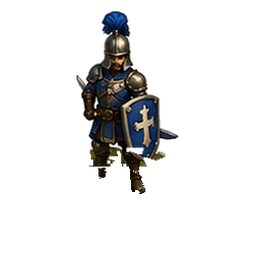
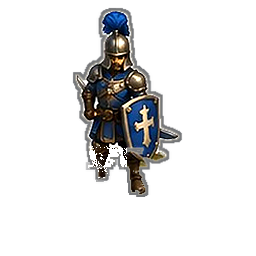
fix(render): fit 2.5D infantry to board presentation

Changed region(s): [[0.2812, 0.0312, 0.7188, 0.7812], [0.4062, 0.4062, 0.4375, 0.4375]]

diff --git a/src/render/board-view.ts b/src/render/board-view.ts
@@ -15,6 +15,33 @@ const BUILDING_DISPLAY = {
   crown: { size: 76, yOffset: -9 },
 } as const;
 
+export interface UnitDisplay {
+  width: number;
+  height: number;
+  hpBarY: number;
+  yOffset: number;
+}
+
+export const DEFAULT_UNIT_DISPLAY: UnitDisplay = {
+  width: 46,
+  height: 51,
+  hpBarY: 27,
+  yOffset: UNIT_Y_OFFSET,
+};
+
+export const UNIT_DISPLAY: Partial<Record<UnitTypeId, UnitDisplay>> = {
+  infantry: {
+    width: 56,
+    height: 66,
+    hpBarY: 33,
+    yOffset: -12,
+  },
+};
+
+export function unitDisplay(type: UnitTypeId): UnitDisplay {
+  return UNIT_DISPLAY[type] ?? DEFAULT_UNIT_DISPLAY;
+}
+
 /** 렌더 계층이 그리는 유닛 표현(게임 유닛·에디터 배치 유닛 공용). */
 export interface ViewUnit {
   key: number;
@@ -174,33 +201,37 @@ export class BoardView {
     for (const unit of units) {
       let view = this.unitViews.get(unit.key);
       const assetId = `unit.${unit.type}.${unit.faction}` as AssetId;
+      const display = unitDisplay(unit.type);
       if (!view) {
         const token = this.scene.add.image(0, 0, textureKey(assetId));
-        token.setDisplaySize(46, 51);
         const hpBar = this.scene.add.graphics();
         const container = this.scene.add.container(0, 0, [token, hpBar]);
         view = { container, token, hpBar };
         this.unitViews.set(unit.key, view);
       } else if (view.token.texture.key !== textureKey(assetId)) {
         view.token.setTexture(textureKey(assetId));
-        view.token.setDisplaySize(46, 51);
       }
+      view.token.setDisplaySize(display.width, display.height);
       const { x, y } = this.pos(unit);
-      view.container.setPosition(x, y + UNIT_Y_OFFSET);
+      view.container.setPosition(x, y + display.yOffset);
       view.container.setDepth(3 + y / 10000);
-      this.drawHpBar(view.hpBar, unit.hpRatio);
+      this.drawHpBar(view.hpBar, unit.hpRatio, display.hpBarY);
       view.container.setAlpha(unit.dim ? 0.55 : 1);
     }
   }
 
-  private drawHpBar(g: Phaser.GameObjects.Graphics, ratio: number | null): void {
+  private drawHpBar(
+    g: Phaser.GameObjects.Graphics,
+    ratio: number | null,
+    hpBarY: number,
+  ): void {
     g.clear();
     if (ratio === null) return;
     const clamped = Phaser.Math.Clamp(ratio, 0, 1);
     const w = 34;
     const h = 5;
     const x = -w / 2;
-    const y = 27;
+    const y = hpBarY;
     g.fillStyle(0x1d1a14, 0.85);
     g.fillRoundedRect(x - 1, y - 1, w + 2, h + 2, 2);
     const color = clamped > 0.55 ? 0x64a05a : clamped > 0.28 ? 0xc9a227 : 0xa33636;

diff --git a/src/render/BoardScene.ts b/src/render/BoardScene.ts
@@ -16,7 +16,7 @@ import {
   disposeCameraFit,
   fitCameraToTiles,
   pixelToHex,
-  UNIT_Y_OFFSET,
+  unitDisplay,
   type ViewUnit,
 } from './board-view';
 
@@ -179,6 +179,7 @@ export class BoardScene extends Phaser.Scene {
       }
       // 병과별 이동 속도: 기병은 빠르고 궁병은 느리다
       const unit = this.state.units.find((u) => u.id === unitId);
+      const yOffset = unitDisplay(unit?.type ?? 'infantry').yOffset;
       const stepMs = unit?.type === 'cavalry' ? 80 : unit?.type === 'archer' ? 125 : 105;
       const points = path.map((p) => this.pos(p));
       let i = 1;
@@ -193,7 +194,7 @@ export class BoardScene extends Phaser.Scene {
         this.tweens.add({
           targets: view.container,
           x: target.x,
-          y: target.y + UNIT_Y_OFFSET,
+          y: target.y + yOffset,
           duration: stepMs,
           ease: 'Sine.easeInOut',
           onComplete: step,
@@ -235,6 +236,9 @@ export class BoardScene extends Phaser.Scene {
         });
       };
       const anim = attackAnimKind(o.attackerType);
+      const attackerYOffset = unitDisplay(o.attackerType).yOffset;
+      const defenderType = this.state.units.find((unit) => unit.id === o.defenderId)?.type;
+      const defenderYOffset = unitDisplay(defenderType ?? 'infantry').yOffset;
       const impact = () => {
         const dmgColor =
           anim === 'bolt'
@@ -248,7 +252,7 @@ export class BoardScene extends Phaser.Scene {
           const style = projectileStyle('bolt');
           const flash = this.add.circle(
             target.x,
-            target.y + UNIT_Y_OFFSET,
+            target.y + defenderYOffset,
             style.impactFlashRadius,
             style.impactFlashColor,
             0.85,
@@ -293,7 +297,7 @@ export class BoardScene extends Phaser.Scene {
         this.tweens.add({
           targets: proj,
           x: target.x,
-          y: target.y + UNIT_Y_OFFSET,
+          y: target.y + defenderYOffset,
           duration: style.durationMs,
           ease: style.ease,
           onComplete: () => {
@@ -307,7 +311,7 @@ export class BoardScene extends Phaser.Scene {
         const oy = view.container.y;
         const depth = anim === 'cavalry-charge' ? 0.5 : 0.3;
         const dx = (target.x - ox) * depth;
-        const dy = (target.y + UNIT_Y_OFFSET - oy) * depth;
+        const dy = (target.y + attackerYOffset - oy) * depth;
         this.tweens.add({
           targets: view.container,
           x: ox + dx,

diff --git a/tests/board-view-unit-display.test.ts b/tests/board-view-unit-display.test.ts
@@ -1,0 +1,35 @@
+// 한 줄 목적: 외부 보병과 기존 fallback 병종의 표시 크기·체력 막대 위치 계약을 검증한다
+import { readFileSync } from 'node:fs';
+import { resolve } from 'node:path';
+import { describe, expect, it } from 'vitest';
+
+const SOURCE = readFileSync(
+  resolve(import.meta.dirname, '../src/render/board-view.ts'),
+  'utf8',
+);
+
+describe('보드 유닛 표시 설정', () => {
+  it('보병만 2.5D 스프라이트 크기와 낮은 체력 막대를 사용한다', () => {
+    expect(SOURCE).toMatch(
+      /UNIT_DISPLAY[\s\S]*?infantry:\s*\{\s*width:\s*56,\s*height:\s*66,\s*hpBarY:\s*33,\s*yOffset:\s*-12,/,
+    );
+  });
+
+  it('다른 병종은 fallback 규격을 사용하고 갱신마다 표시 설정을 다시 적용한다', () => {
+    expect(SOURCE).toMatch(
+      /DEFAULT_UNIT_DISPLAY[\s\S]*?width:\s*46,\s*height:\s*51,\s*hpBarY:\s*27,\s*yOffset:\s*UNIT_Y_OFFSET,/,
+    );
+    expect(SOURCE).toContain('return UNIT_DISPLAY[type] ?? DEFAULT_UNIT_DISPLAY;');
+    expect(SOURCE).toContain('view.token.setDisplaySize(display.width, display.height);');
+    expect(SOURCE).toContain('view.container.setPosition(x, y + display.yOffset);');
+    expect(SOURCE).toContain(
+      'this.drawHpBar(view.hpBar, unit.hpRatio, display.hpBarY);',
+    );
+  });
+
+  it('체력 막대가 없는 에디터 유닛은 계속 그리기를 건너뛴다', () => {
+    expect(SOURCE).toMatch(
+      /private drawHpBar\([\s\S]*?g\.clear\(\);\s*if \(ratio === null\) return;/,
+    );
+  });
+});
